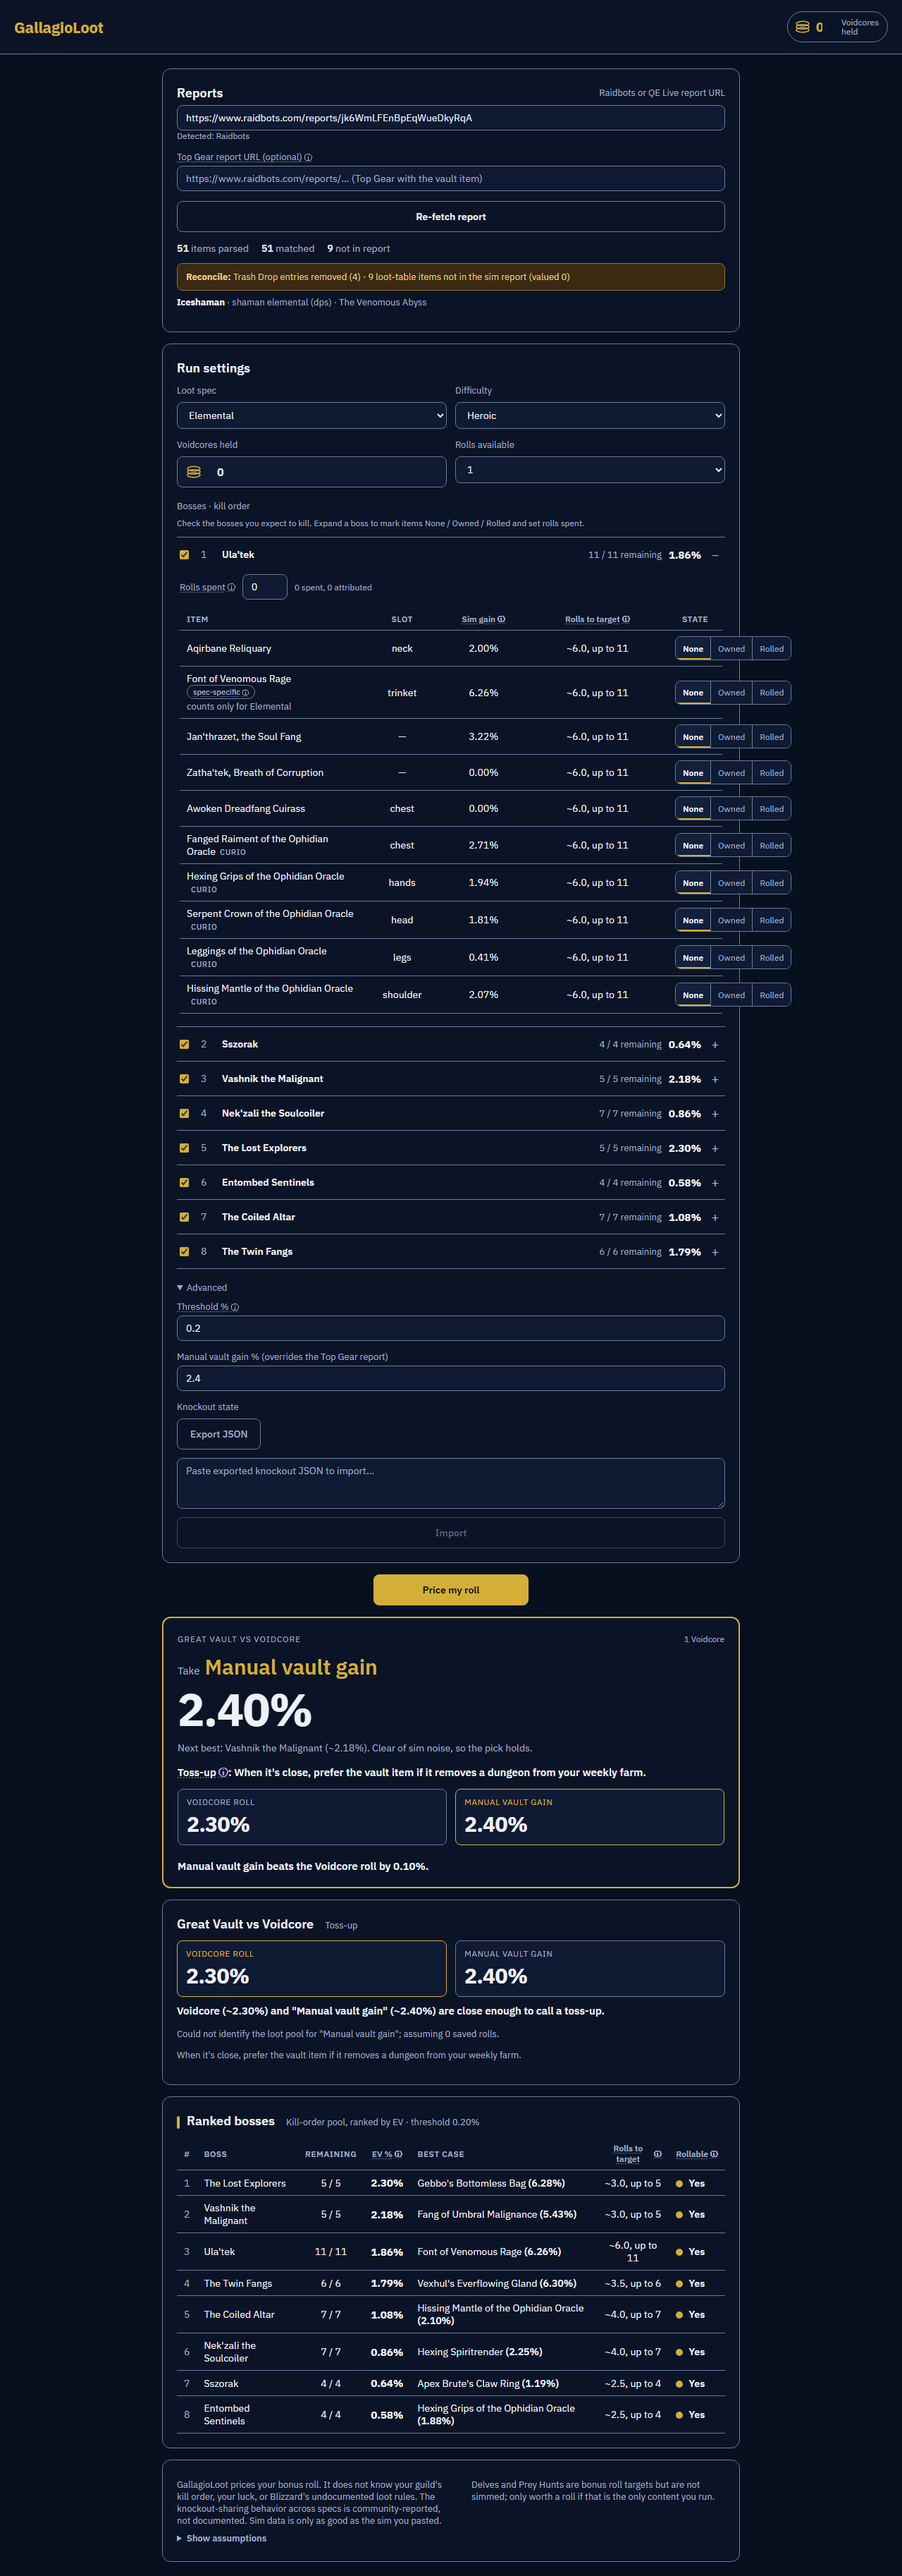
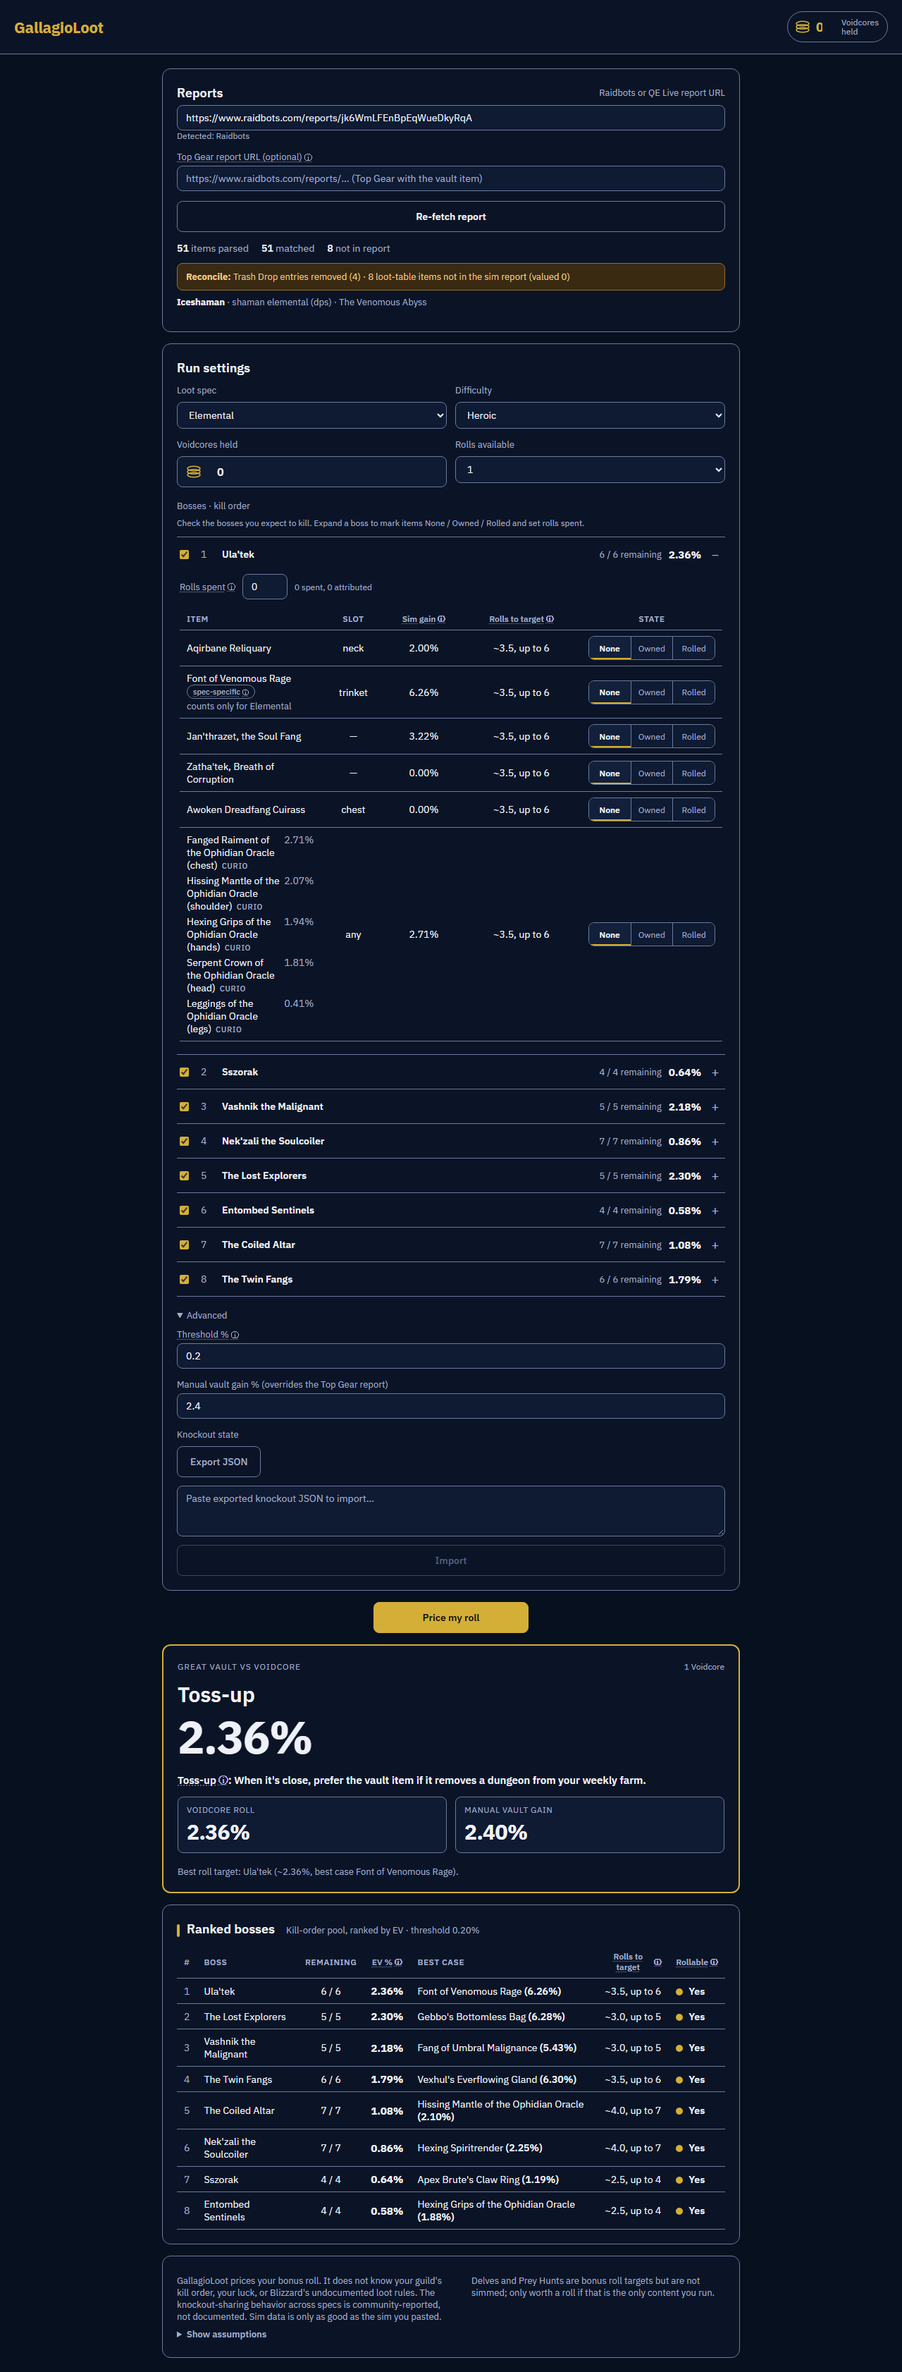
Fix state-control and run-settings overflow at desktop and mobile widths
The STATE column's 3-button None/Owned/Rolled control overflowed the
card's right edge at 1280px, and was clipped to "No..." at 390px --
both from the same root cause: .loot-item-table's desktop per-column
widths (needed for table-layout: fixed) are set via :nth-child/:last-
child selectors, which outrank the generic .fold-table td { width:
100% } mobile rule on CSS specificity alone. Every folded cell was
still boxed to its desktop column width below the fold breakpoint --
invisible for plain text (nothing clips it), but visible for the
State cell because .state-seg itself clips overflow.

Fixes:
 - .state-seg is now a full-width flex row with three flex:1 buttons
   (padding trimmed to fit), instead of an inline-flex sized to content.
 - The STATE column got a real percentage share (26%, rebalanced
   against the other four columns) instead of a 72px leftover-from-
   checkbox width.
 - .loot-item-table.fold-table tbody td resets every column back to
   the full fold-row width below 640px (higher specificity than the
   desktop nth-child rules), and the State cell stacks its label above
   the control instead of squeezing it into half a row.
 - Boss names wrap instead of truncating: the boss-row header restructures
   to name-on-its-own-line + remaining/EV on a second line below at
   phone width, rather than fighting two auto-width columns for space.
 - The Loot spec/Difficulty and Voidcores/Rolls-available field pairs
[…]

diff --git a/web/src/theme.css b/web/src/theme.css
@@ -529,6 +529,75 @@ tr.excluded .deploy-table__ev {
   .fold-table td[data-label='Item']::before {
     content: none;
   }
+
+  /* .loot-item-table's desktop per-column percent/px widths (needed for its
+     table-layout: fixed) outrank the generic .fold-table td { width: 100% } rule on
+     specificity alone -- so every folded cell (not just State) was still boxed to its
+     desktop column width, just invisibly, since only .state-seg (below) actually
+     clips overflow instead of letting text spill past an invisible boundary. Two
+     classes beats one, clearing every column back to the full fold-row width. */
+  .loot-item-table.fold-table tbody td {
+    width: 100%;
+  }
+
+  /* The State cell holds a 3-button control, not a short value -- stack the label
+     above it and let the control use the full row width instead of squeezing it into
+     the value half of a label/value split (which is how it got clipped to "No..."). */
+  .fold-table td[data-label='State'] {
+    flex-direction: column;
+    align-items: stretch;
+    gap: 6px;
+  }
+
+  /* Real touch target height at phone width. */
+  .state-seg__btn {
+    min-height: 44px;
+  }
+
+  /* Boss row header: the name gets its own full-width line (so it can wrap instead of
+     truncating) with remaining/EV dropped to a second line below it, rather than
+     squeezing the name's grid column down to a sliver next to those two auto-width
+     columns (which is how it got truncated to "Ula'..." in the first place). */
+  .boss-row__summary {
+    grid-template-columns: 20px 1fr 20px;
+    grid-template-areas:
+      'rank name chevron'
+      'meta meta meta';
+    row-gap: 4px;
+  }
+
+  .boss-row__rank {
+    grid-area: rank;
+  }
+
+  .boss-row__name {
+    grid-area: name;
+    white-space: normal;
+    overflow: visible;
+    text-overflow: unset;
+  }
+
+  .boss-row__chevron {
+    grid-area: chevron;
+  }
+
+  .boss-row__meta {
+    grid-area: meta;
+  }
+
+  /* The Loot spec/Difficulty and Voidcores/Rolls-available field pairs go full width
+     instead of squeezing two selects/inputs side by side (where the second one clips). */
+  .run-settings-row {
+    grid-template-columns: 1fr;
+  }
+}
+
+/* A <select>'s min-content width (driven by its option text) can't shrink below its
+   content -- as a grid item with the default min-width:auto, that floor forces the
+   whole run-settings-row grid track wider than its 1fr share, overflowing the panel.
+   min-width: 0 lets the field (and its select/input) actually shrink to the track. */
+.run-settings-row > .field {
+  min-width: 0;
 }
 
 /* Fixed layout with an explicit Item-column share -- an auto table layout squeezes
@@ -540,17 +609,17 @@ tr.excluded .deploy-table__ev {
 
 .loot-item-table th:first-child,
 .loot-item-table td:first-child {
-  width: 34%;
+  width: 26%;
 }
 
 .loot-item-table th:nth-child(2),
 .loot-item-table td:nth-child(2) {
-  width: 14%;
+  width: 12%;
 }
 
 .loot-item-table th:nth-child(3),
 .loot-item-table td:nth-child(3) {
-  width: 16%;
+  width: 14%;
 }
 
 .loot-item-table th:nth-child(3),
@@ -562,14 +631,16 @@ tr.excluded .deploy-table__ev {
 
 .loot-item-table th:nth-child(4),
 .loot-item-table td:nth-child(4) {
-  width: 26%;
+  width: 22%;
 }
 
-/* Fixed-width checkbox column so knockout controls line up in a column instead of
-   drifting with item-name length. */
+/* The STATE column holds a 3-button segmented control (None/Owned/Rolled), not a
+   checkbox -- it needs real room, in percent so it scales down (rather than overflowing
+   its cell, and the card's right edge with it) at any width down to the fold-table
+   breakpoint, where it switches to a full-width block below the item name instead. */
 .loot-item-table th:last-child,
 .loot-item-table td:last-child {
-  width: 72px;
+  width: 26%;
   text-align: center;
 }
 
@@ -1381,7 +1452,7 @@ select:disabled {
 .boss-row__summary {
   flex: 1;
   display: grid;
-  grid-template-columns: 20px minmax(0, 1fr) auto auto 20px;
+  grid-template-columns: 20px minmax(0, 1fr) auto 20px;
   align-items: center;
   gap: var(--space-5);
   background: none;
@@ -1391,6 +1462,12 @@ select:disabled {
   cursor: pointer;
   padding: var(--space-5) var(--space-2);
   font-size: var(--text-body);
+}
+
+.boss-row__meta {
+  display: flex;
+  align-items: center;
+  gap: var(--space-5);
 }
 
 .boss-row__summary:hover {
@@ -1474,20 +1551,25 @@ select:disabled {
 }
 
 /* Per-item ownership control: None / Owned / Rolled. Selected segment gets a neutral
-   highlight (no gold -- the recommendation card keeps the heaviest treatment). */
+   highlight (no gold -- the recommendation card keeps the heaviest treatment). Always
+   full width of its cell with three equal-share buttons, so it fits the STATE column at
+   any width instead of overflowing it (and, at the fold-table breakpoint, the row). */
 .state-seg {
-  display: inline-flex;
+  display: flex;
+  width: 100%;
   border: 1px solid var(--border);
   border-radius: var(--radius-sm);
   overflow: hidden;
 }
 
 .state-seg__btn {
+  flex: 1 1 0;
+  min-width: 0;
   background: var(--bg-panel-alt);
   border: none;
   border-right: 1px solid var(--border);
   color: var(--text-secondary);
-  padding: var(--space-3) var(--space-5);
+  padding: var(--space-3) var(--space-2);
   font-size: var(--text-eyebrow);
   cursor: pointer;
   min-height: 32px;

diff --git a/web/src/components/BossList.tsx b/web/src/components/BossList.tsx
@@ -90,10 +90,15 @@ function BossRow(props: {
         <button type="button" className="boss-row__summary" aria-expanded={expanded} onClick={onToggleExpand}>
           <span className="boss-row__rank num">{index + 1}</span>
           <span className="boss-row__name">{boss.encounterName}</span>
-          <span className="boss-row__remaining num">
-            {boss.remaining} / {boss.pool.length} <span className="boss-row__remaining-label">remaining</span>
+          {/* Grouped so mobile can drop it to its own full-width line below the name
+              (see .boss-row__meta at max-width: 640px) instead of squeezing the name's
+              grid column down to a sliver next to it. */}
+          <span className="boss-row__meta">
+            <span className="boss-row__remaining num">
+              {boss.remaining} / {boss.pool.length} <span className="boss-row__remaining-label">remaining</span>
+            </span>
+            <span className="boss-row__ev num">{boss.evPct.toFixed(2)}%</span>
           </span>
-          <span className="boss-row__ev num">{boss.evPct.toFixed(2)}%</span>
           <span className="boss-row__chevron" aria-hidden="true">
             {expanded ? '−' : '+'}
           </span>
